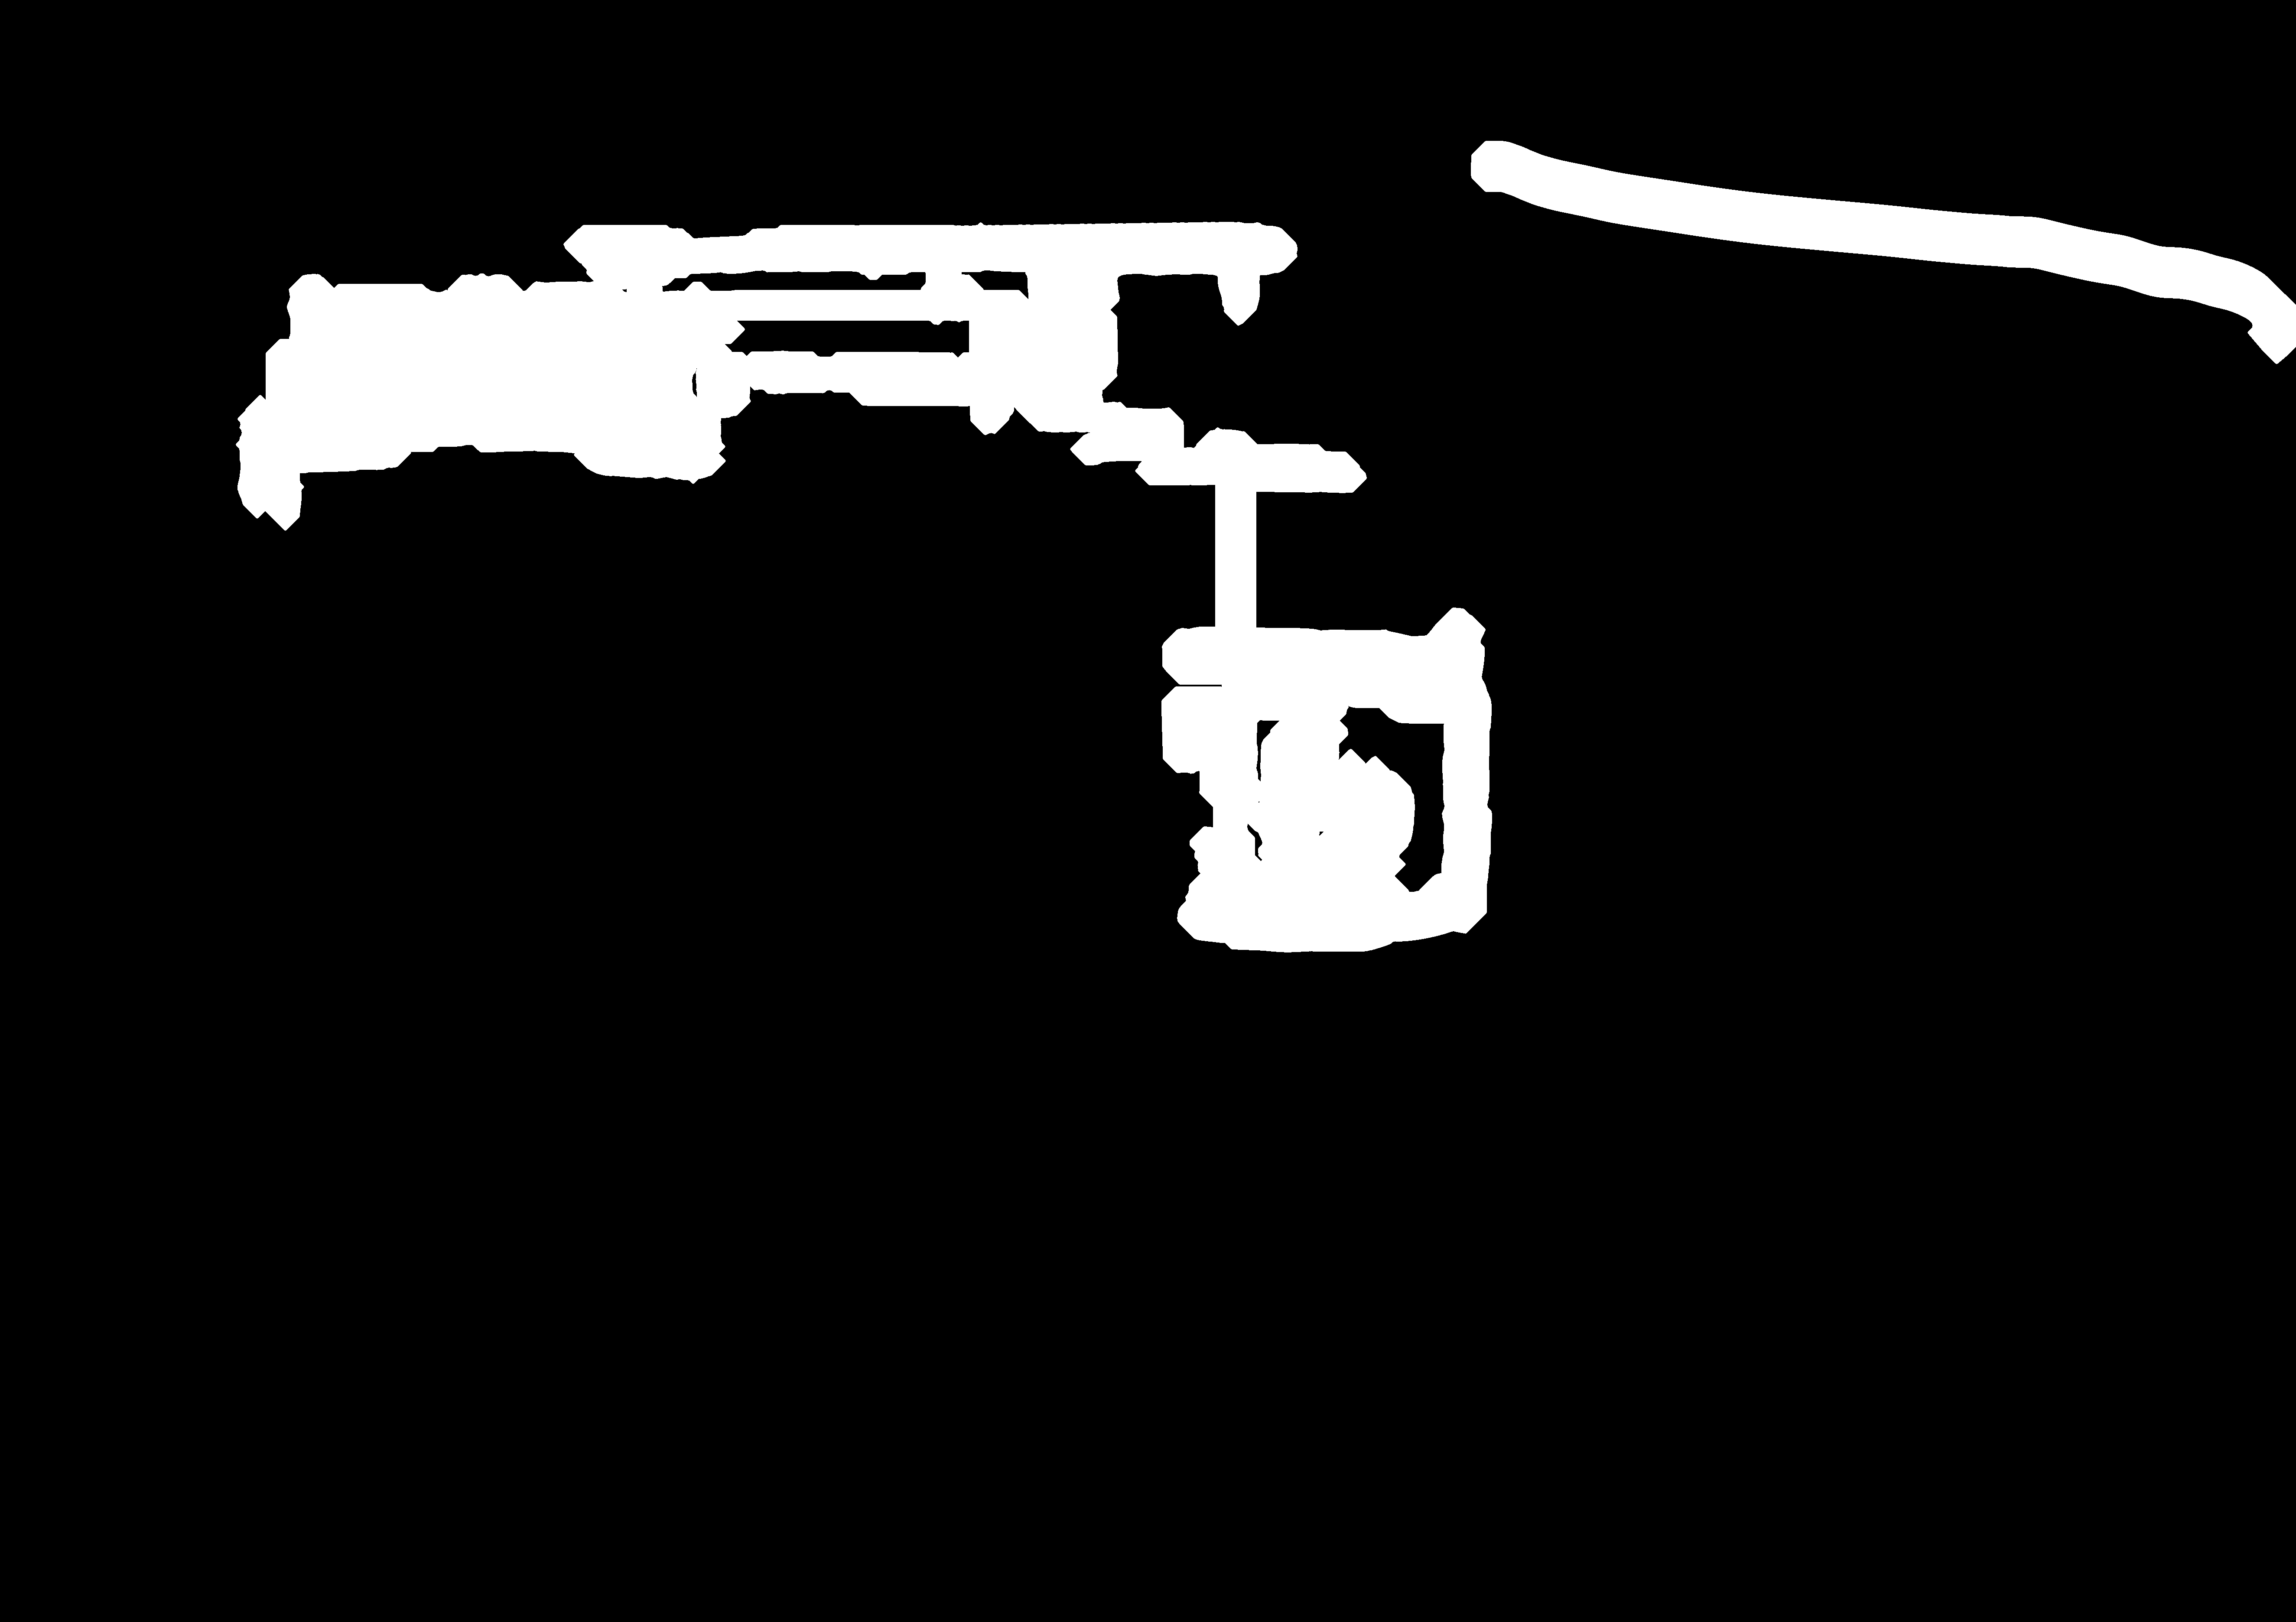
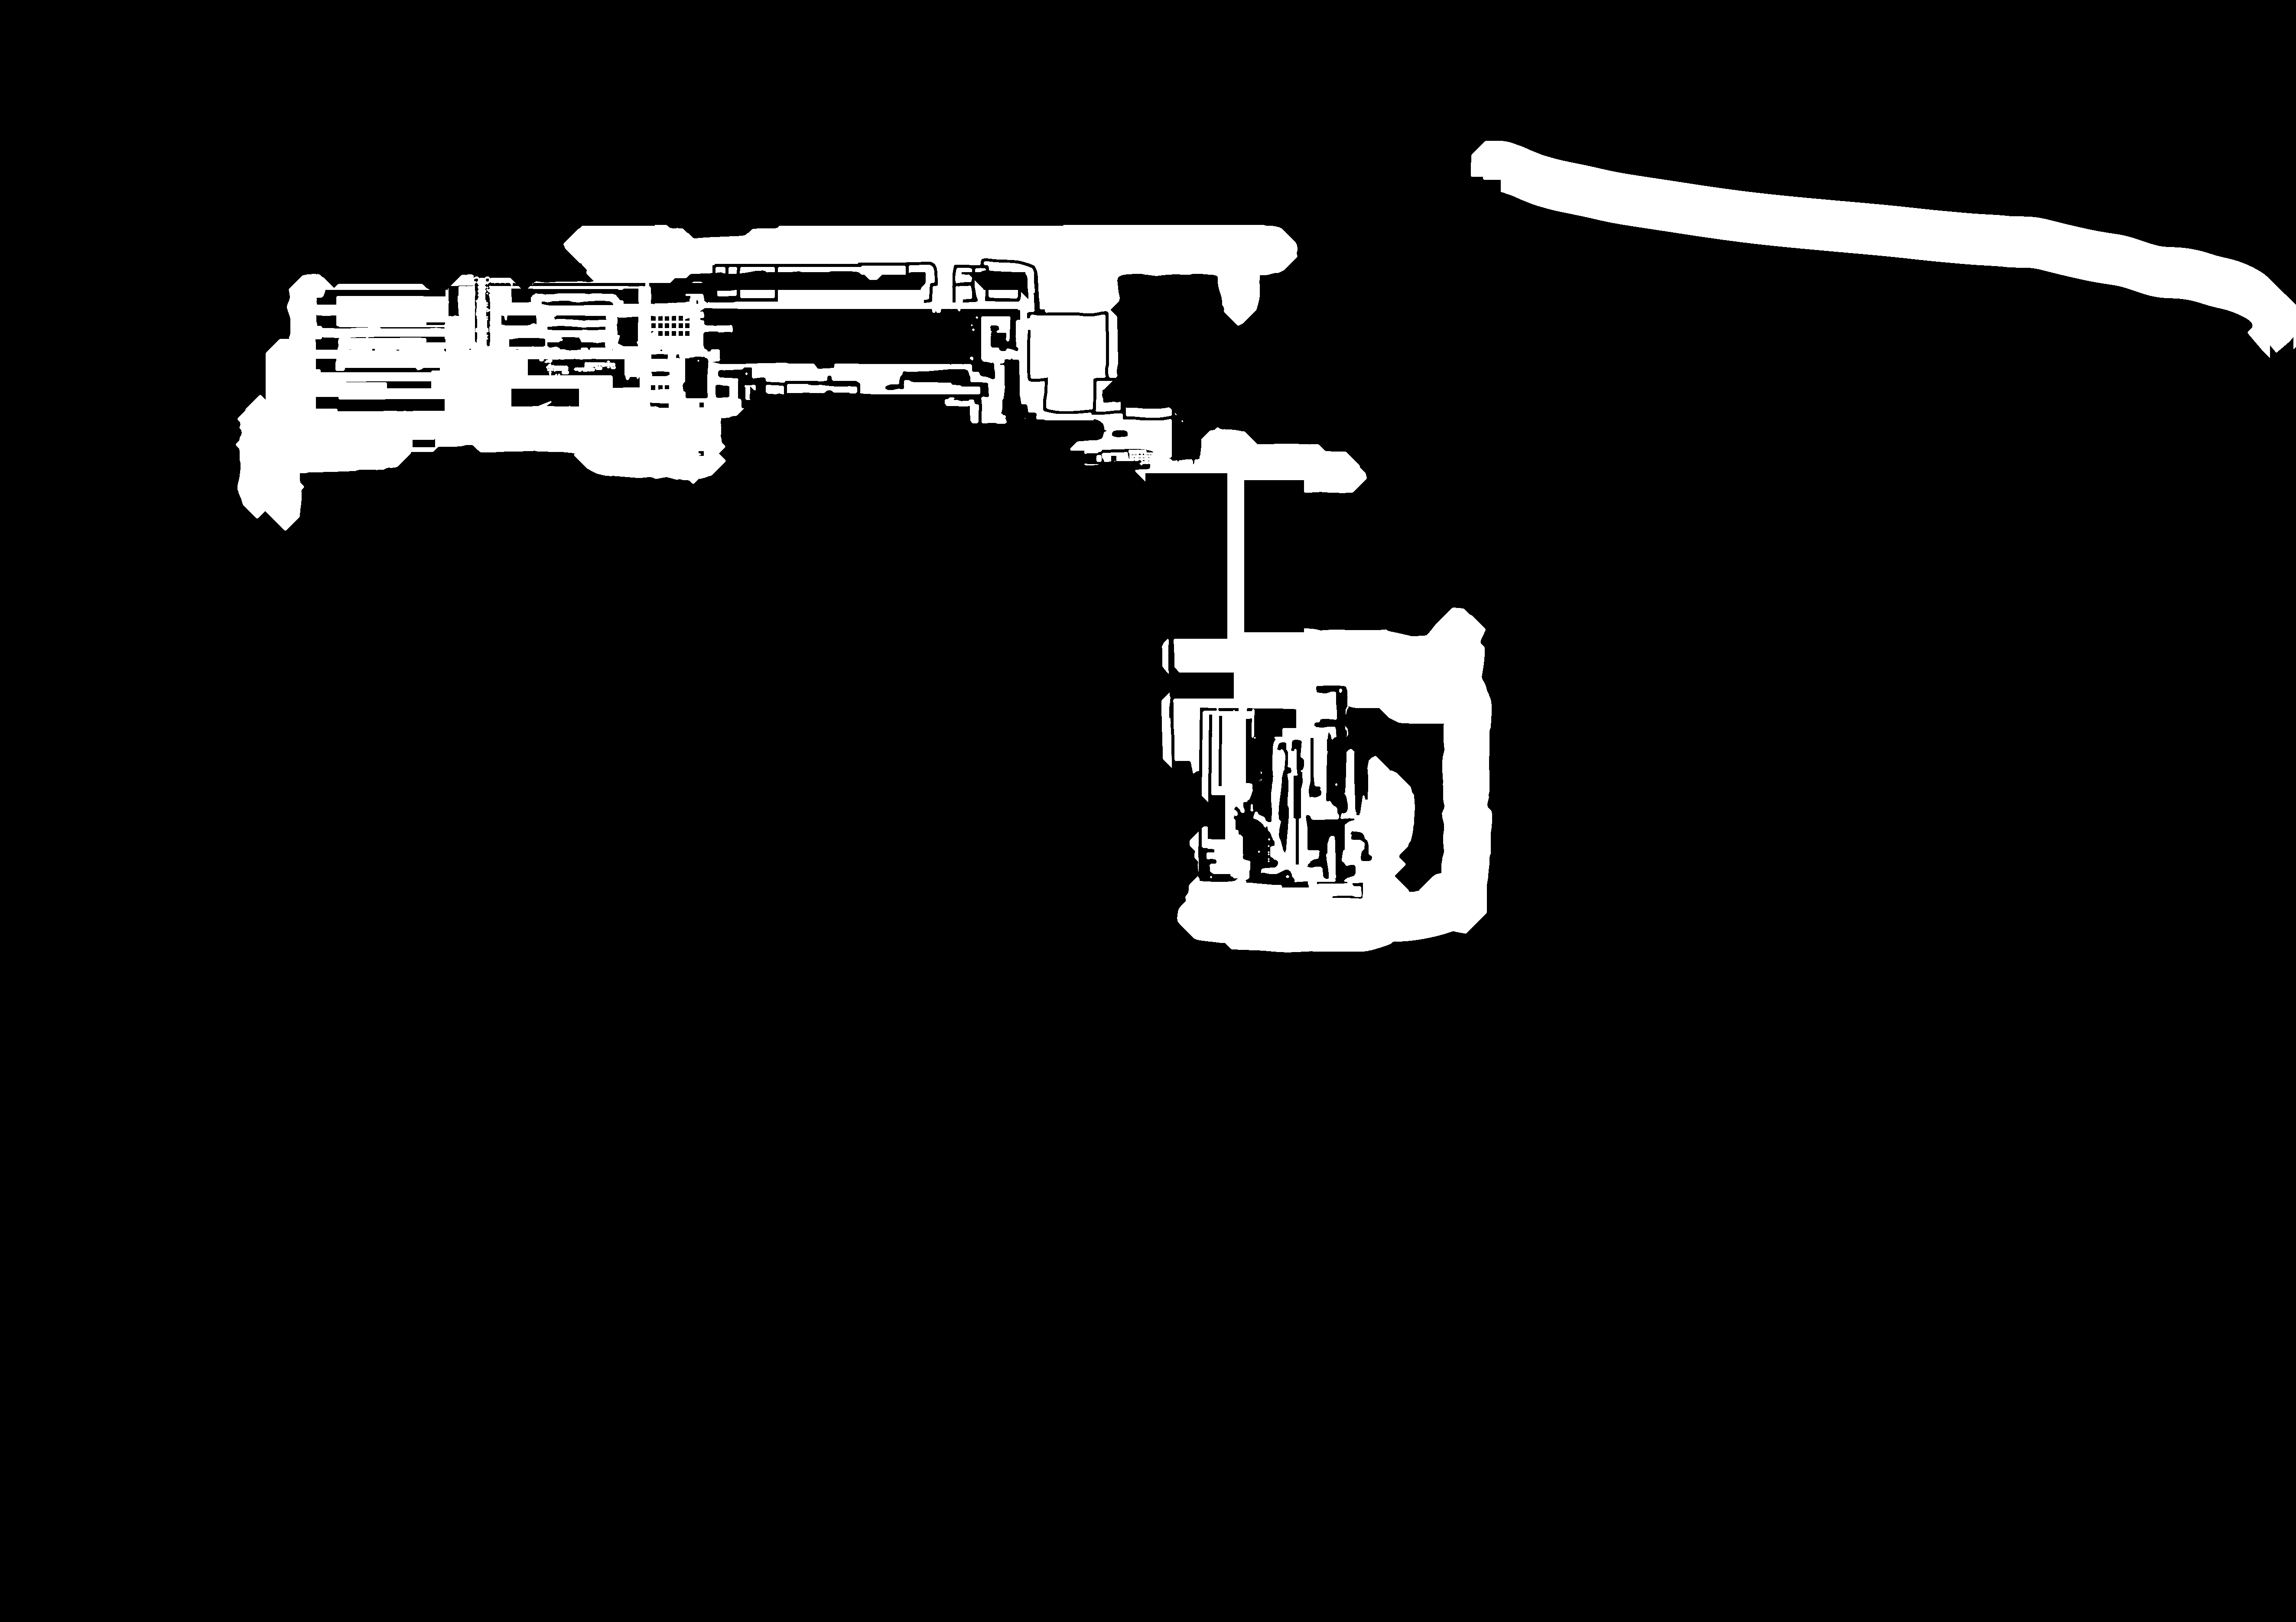
Enforce absolute red floorplan priority

Changed region(s): [[0.1557, 0.155, 0.6229, 0.5578], [0.1246, 0.1859, 0.1869, 0.2789], [0.9966, 0.1859, 1.0, 0.2169]]

diff --git a/backend/tests/test_floorplan_constraints.py b/backend/tests/test_floorplan_constraints.py
@@ -19,6 +19,26 @@ from backend.kerama_reference_route import load_reference_route
 
 
 class FloorplanConstraintEngineTests(unittest.TestCase):
+    def test_red_obstacle_has_absolute_priority_over_green_support(self) -> None:
+        support = np.ones((20, 20), dtype=bool)
+        obstacle = np.zeros_like(support)
+        obstacle[8:12, 8:12] = True
+        engine = FloorplanConstraintEngine(
+            FloorplanConfig(
+                map_id="red_priority",
+                width=20,
+                height=20,
+                meters_per_pixel=0.1,
+                grid_cell_pixels=1,
+                person_radius_meters=0.0,
+                obstacle_mask_file="",
+            ),
+            obstacle,
+            support,
+        )
+        self.assertTrue(engine._point_occupied([9, 9]))
+        self.assertFalse(engine._point_occupied([2, 2]))
+
     def test_long_route_initial_heading_uses_only_early_anchor(self) -> None:
         points = np.zeros((600, 2), dtype=float)
         points[:49, 0] = np.arange(49)
@@ -487,17 +507,17 @@ class FloorplanConstraintEngineTests(unittest.TestCase):
             "success": True,
             "method": "r3_reconstruction_scale_aware",
             "plan_trajectory": [
-                [0, 0, 0], [400, 0, 0], [800, 0, 0],
-                [1200, 0, 0], [1600, 0, 0], [2000, 0, 0],
+                [0, 0, 0], [100, 0, 0], [200, 0, 0],
+                [300, 0, 0], [400, 0, 0], [500, 0, 0],
             ],
             "turn_points": [{
                 "frame_index": 3,
                 "trajectory_index": 3,
                 "angle_degrees": 90.0,
-                "position": [1200, 0, 0],
+                "position": [300, 0, 0],
                 "turn_type": "left",
             }],
-            "source_timestamps_seconds": [0, 16, 32, 48, 64, 80],
+            "source_timestamps_seconds": [0, 2, 4, 6, 8, 10],
             "trajectory_quality": {
                 "projection": {"plan_coordinate_convention": "x_forward_y_left_z_up"}
             },
@@ -506,8 +526,8 @@ class FloorplanConstraintEngineTests(unittest.TestCase):
         original = [point[:] for point in source["plan_trajectory"]]
         updated = apply_floorplan_constraints(source, {
             "floorplan_id": "kerama_marazzi_2025",
-            "reference_point": {"x": 2226 / 5298 * 100, "y": 678 / 3743 * 100},
-            "direction_point": {"x": 2145 / 5298 * 100, "y": 705 / 3743 * 100},
+            "reference_point": {"x": 2190 / 5298 * 100, "y": 686 / 3743 * 100},
+            "direction_point": {"x": 2170 / 5298 * 100, "y": 666 / 3743 * 100},
         })
         self.assertTrue(updated["processing_stats"]["map_matching_applied"])
         self.assertGreater(len(updated["map_trajectory"]), 1)
@@ -519,7 +539,7 @@ class FloorplanConstraintEngineTests(unittest.TestCase):
         self.assertEqual(updated["map_metadata"]["map_id"], "kerama_marazzi_2025")
         self.assertEqual(
             updated["floorplan_constraint"]["constraint_revision"],
-            "kerama_green_authoritative_mask_and_polarity_v28",
+            "kerama_absolute_red_priority_local_repair_v29",
         )
         self.assertEqual(
             len(updated["map_trajectory_timestamps_seconds"]),
@@ -533,20 +553,20 @@ class FloorplanConstraintEngineTests(unittest.TestCase):
 
     def test_positive_green_anchor_and_heading_are_walkable(self) -> None:
         engine = get_floorplan_engine()
-        self.assertFalse(engine._point_occupied([2222.623, 684.183]))
-        self.assertFalse(engine._point_occupied([2153.863, 611.081]))
+        self.assertFalse(engine._point_occupied([2190.0, 686.0]))
+        self.assertFalse(engine._point_occupied([2170.0, 666.0]))
         self.assertTrue(engine._point_occupied([100, 100]))
 
     def test_fixed_anchor_heading_segment_is_walkable_and_connected(self) -> None:
         engine = get_floorplan_engine()
         points = np.asarray([
-            [2222.623, 684.183],
-            [2153.863, 611.081],
+            [2190.0, 686.0],
+            [2170.0, 666.0],
         ], dtype=float)
         self.assertEqual(engine._collision_runs(points), [])
         self.assertEqual(engine._path_component_count(points), 1)
 
-    def test_operator_reference_route_aligns_end_to_end(self) -> None:
+    def test_stale_operator_reference_route_is_rejected_by_red_priority(self) -> None:
         engine = get_floorplan_engine()
         reference = load_reference_route()
         points = reference["points"]
@@ -566,18 +586,12 @@ class FloorplanConstraintEngineTests(unittest.TestCase):
             yaw_offsets_degrees=[0.0],
             allow_safe_shape_fallback=True,
         )
-        self.assertTrue(result["accepted"], result["diagnostics"])
-        self.assertEqual(result["diagnostics"]["corrected_collision_ratio"], 0.0)
-        self.assertAlmostEqual(
-            result["diagnostics"]["published_length_meters"],
-            reference["expected_length_meters"],
-            delta=reference["length_tolerance_meters"],
+        self.assertFalse(result["accepted"])
+        self.assertEqual(result["trajectory"], [])
+        self.assertIn(
+            "different_walkable_components",
+            result["diagnostics"]["rejection_reasons"],
         )
-        endpoint = np.asarray(result["trajectory"][-1][:2])
-        endpoint_error = float(np.linalg.norm(
-            endpoint - np.asarray(reference["expected_end_point"])
-        )) * engine.config.meters_per_pixel
-        self.assertLessEqual(endpoint_error, reference["endpoint_tolerance_meters"])
 
     def test_floorplan_can_select_guarded_r3_lingbot_fusion_candidate(self) -> None:
         source_path = [
@@ -606,8 +620,8 @@ class FloorplanConstraintEngineTests(unittest.TestCase):
         with patch.dict(os.environ, {"TRACKAI_ENABLE_FUSION_MAP_CANDIDATE": "1"}):
             updated = apply_floorplan_constraints(source, {
                 "floorplan_id": "kerama_marazzi_2025",
-                "reference_point": {"x": 2226 / 5298 * 100, "y": 678 / 3743 * 100},
-                "direction_point": {"x": 2145 / 5298 * 100, "y": 705 / 3743 * 100},
+                "reference_point": {"x": 2190 / 5298 * 100, "y": 686 / 3743 * 100},
+                "direction_point": {"x": 2170 / 5298 * 100, "y": 666 / 3743 * 100},
             })
 
         self.assertTrue(updated["processing_stats"]["map_matching_applied"])

diff --git a/backend/tools/reconcile_kerama_walkability.py b/backend/tools/reconcile_kerama_walkability.py
@@ -1,13 +1,9 @@
 #!/usr/bin/env python3
-"""Reconcile the fixed Kerama walkability layers.
+"""Enforce the Kerama floor-plan mask precedence invariant.
 
-The green annotation is the operator's affirmative statement that a part of
-the plan is traversable.  Red paint outside that layer remains a no-go area,
-but red CAD/markup strokes which overlap a verified green corridor must not
-split that corridor.  The previous global red-over-green rule did exactly
-that: it even made the approved initial heading point an obstacle.
-
-This is a plan-layer reconciliation, not a trajectory-specific edit.
+Red pixels in the operator obstacle layer are immutable. Green is positive
+walkability evidence only where it does not overlap that layer. Native red CAD
+ink is deliberately excluded by ``prepare_kerama_floorplan.py``.
 """
 
 from __future__ import annotations
@@ -30,30 +26,43 @@ METADATA_PATH = ASSET_ROOT / f"{MAP_ID}.json"
 def main() -> None:
     obstacle = np.asarray(Image.open(OBSTACLE_PATH).convert("L")) >= 128
     support = np.asarray(Image.open(SUPPORT_PATH).convert("L")) >= 128
+    reconciled_obstacle = obstacle
+    reconciled_support = support & ~reconciled_obstacle
+    if np.any(reconciled_obstacle & reconciled_support):
+        raise AssertionError("Red obstacle/support overlap survived reconciliation")
 
-    # The final engine already excludes every pixel outside ``support``.
-    # Keeping an obstacle there is harmless, while an obstacle *inside* the
-    # positive layer contradicts the operator-provided corridor topology.
-    reconciled = obstacle & ~support
-    Image.fromarray((reconciled * 255).astype(np.uint8)).save(
+    Image.fromarray((reconciled_obstacle * 255).astype(np.uint8)).save(
         OBSTACLE_PATH, optimize=True
+    )
+    Image.fromarray((reconciled_support * 255).astype(np.uint8)).save(
+        SUPPORT_PATH, optimize=True
     )
 
     metadata = json.loads(METADATA_PATH.read_text(encoding="utf-8"))
     metadata["obstacle_mask_sha256"] = hashlib.sha256(
         OBSTACLE_PATH.read_bytes()
     ).hexdigest()
+    metadata["support_mask_sha256"] = hashlib.sha256(
+        SUPPORT_PATH.read_bytes()
+    ).hexdigest()
+    metadata["support_mask_generation"] = {
+        **dict(metadata.get("support_mask_generation") or {}),
+        "coverage_ratio": float(reconciled_support.mean()),
+    }
     metadata["walkable_annotation"] = {
         **dict(metadata.get("walkable_annotation") or {}),
-        "red_obstacles_take_precedence": False,
-        "precedence": "positive_green_corridor_over_overlapping_red_markup",
-        "reconciliation": "green_support_authoritative_v1",
+        "red_obstacles_take_precedence": True,
+        "precedence": "red_obstacles_over_positive_green",
+        "reconciliation": "absolute_red_priority_v2",
         "route_specific_overrides": False,
     }
     metadata["obstacle_annotation"] = {
         **dict(metadata.get("obstacle_annotation") or {}),
-        "remaining_red_is_absolute_outside_positive_green": True,
-        "overlap_policy": "positive_green_corridor_has_precedence",
+        "method": "changed_red_operator_annotation",
+        "annotation_pixel_count": int(reconciled_obstacle.sum()),
+        "remaining_red_is_absolute": True,
+        "remaining_red_is_absolute_outside_positive_green": False,
+        "overlap_policy": "red_obstacles_have_absolute_precedence",
         "route_specific_overrides": False,
     }
     METADATA_PATH.write_text(

diff --git a/backend/tools/prepare_kerama_floorplan.py b/backend/tools/prepare_kerama_floorplan.py
@@ -171,11 +171,9 @@ def main() -> None:
             green_support,
             iterations=green_corridor_margin_pixels,
         )
-        # Green is affirmative operator evidence for a traversable passage.
-        # Red CAD/markup strokes may overlap that paint, so the immutable
-        # outside-support gate handles red only where it does not contradict
-        # the positive corridor layer.
-        mask = mask & ~support
+        # Red is an immutable obstacle. Green is affirmative walkability
+        # evidence only outside red; it must never erase an obstacle.
+        support = support & ~mask
         meters_per_pixel = math.sqrt(
             OFFICE_AREA_M2
             / ((OFFICE_INTERIOR[2] - OFFICE_INTERIOR[0])
@@ -207,6 +205,12 @@ def main() -> None:
         "grid_cell_pixels": 4,
         "person_radius_meters": 0.28,
         "walking_speed_mps": 1.20,
+        "default_start_anchor": {
+            "source": "fixed_plan_start_left_heading_red_safe_v3",
+            "reference_pixels": [2190.0, 686.0],
+            "direction_pixels": [2170.0, 666.0],
+            "trajectory_points_used": False,
+        },
         "obstacle_mask_file": "kerama_marazzi_2025_obstacles.png",
         "obstacle_mask_sha256": hashlib.sha256(obstacle_path.read_bytes()).hexdigest(),
         "support_mask_file": support_path.name,
@@ -228,6 +232,9 @@ def main() -> None:
             "method": "changed_red_operator_annotation",
             "boundary_cleanup_pixels": red_boundary_cleanup_pixels,
             "physical_person_halo_applied_by_engine": True,
+            "remaining_red_is_absolute": True,
+            "overlap_policy": "red_obstacles_have_absolute_precedence",
+            "route_specific_overrides": False,
         },
         "walkable_annotation": {
             "method": "changed_green_operator_annotation",
@@ -237,8 +244,9 @@ def main() -> None:
             "closing_pixels": green_support_close_pixels,
             "opening_pixels": green_support_open_pixels,
             "dilation_pixels": green_support_dilation_pixels,
-            "red_obstacles_take_precedence": False,
-            "precedence": "positive_green_corridor_over_overlapping_red_markup",
+            "red_obstacles_take_precedence": True,
+            "precedence": "red_obstacles_over_positive_green",
+            "reconciliation": "absolute_red_priority_v2",
             "route_specific_overrides": False,
         },
         "reference_mask": {

diff --git a/backend/floorplan_constraints.py b/backend/floorplan_constraints.py
@@ -31,7 +31,7 @@ except ImportError:  # pragma: no cover - package import path
 
 DEFAULT_FLOORPLAN_ID = "kerama_marazzi_2025"
 FLOORPLAN_CONSTRAINT_REVISION = (
-    "kerama_green_authoritative_mask_and_polarity_v28"
+    "kerama_absolute_red_priority_local_repair_v29"
 )
 ASSET_ROOT = Path(__file__).resolve().parent / "assets" / "floorplans"
 
@@ -581,6 +581,10 @@ class FloorplanConstraintEngine:
         support = None if support_mask is None else np.asarray(support_mask, dtype=bool)
         if support is not None and support.shape != mask.shape:
             raise ValueError("Floorplan support mask shape does not match obstacle mask")
+        # Obstacles are authoritative even for programmatically constructed
+        # engines whose input layers overlap.
+        if support is not None:
+            support = support & ~mask
         self._full_mask = mask | (~support if support is not None else False)
         self._support_mask = support
         self._build_grid(self._full_mask, annotation_mask=mask)